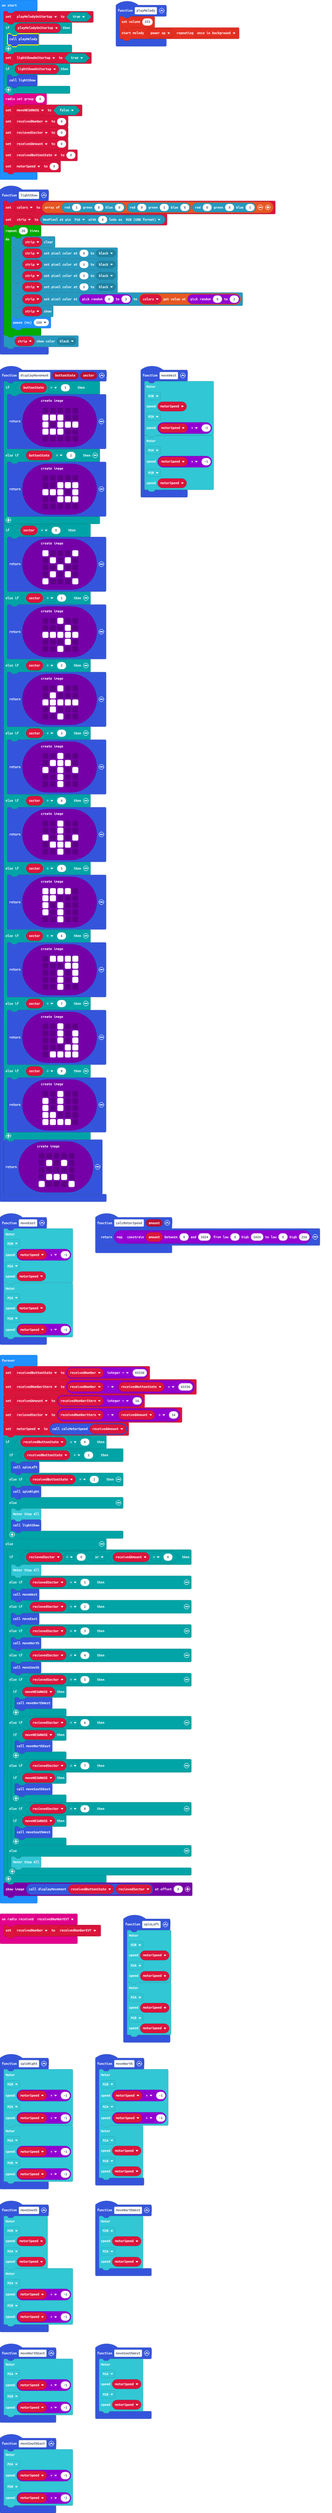
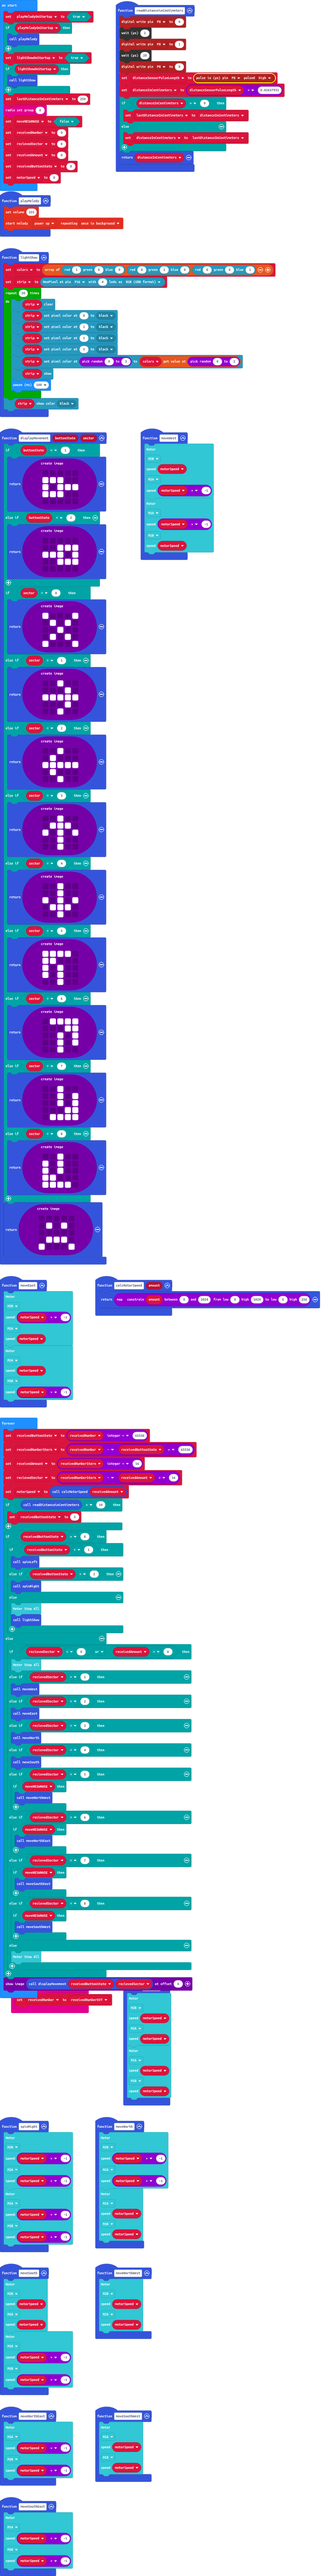
Add Distance Measurement using HC-SR04 Groove Ultrasonic Sensor

Changed region(s): [[0.0, 0.0, 0.9592, 1.0]]

diff --git a/main.ts b/main.ts
@@ -223,6 +223,21 @@ function displayMovement (buttonState: number, sector: number) {
         # . . . #
         `)
 }
+function readDistanceinCentimeters () {
+    pins.digitalWritePin(DigitalPin.P8, 0)
+    control.waitMicros(2)
+    pins.digitalWritePin(DigitalPin.P8, 1)
+    control.waitMicros(20)
+    pins.digitalWritePin(DigitalPin.P8, 0)
+    distanceSensorPulseLength = pins.pulseIn(DigitalPin.P8, PulseValue.High)
+    distanceInCentimeters = distanceSensorPulseLength * 0.02637931
+    if (distanceInCentimeters > 0) {
+        lastDistanceInCentimeters = distanceInCentimeters
+    } else {
+        distanceInCentimeters = lastDistanceInCentimeters
+    }
+    return distanceInCentimeters
+}
 function lightShow () {
     colors = [neopixel.rgb(1, 0, 0), neopixel.rgb(0, 1, 0), neopixel.rgb(0, 0, 1)]
     strip = neopixel.create(DigitalPin.P16, 4, NeoPixelMode.RGB)
@@ -241,8 +256,11 @@ function lightShow () {
 let receivedNumberStern = 0
 let strip: neopixel.Strip = null
 let colors: number[] = []
+let distanceInCentimeters = 0
+let distanceSensorPulseLength = 0
 let motorSpeed = 0
 let receivedNumber = 0
+let lastDistanceInCentimeters = 0
 let playMelodyOnStartup = true
 if (playMelodyOnStartup) {
     playMelody()
@@ -251,6 +269,7 @@ let lightShowOnStartup = true
 if (lightShowOnStartup) {
     lightShow()
 }
+lastDistanceInCentimeters = 250
 radio.setGroup(0)
 let moveNESWNWSE = false
 receivedNumber = 0
@@ -264,6 +283,9 @@ basic.forever(function () {
     receivedAmount = Math.idiv(receivedNumberStern, 16)
     recievedSector = receivedNumberStern - receivedAmount * 16
     motorSpeed = calcMotorSpeed(receivedAmount)
+    if (readDistanceinCentimeters() < 10) {
+        receivedButtonState = 3
+    }
     if (receivedButtonState > 0) {
         if (receivedButtonState == 1) {
             spinLeft()
